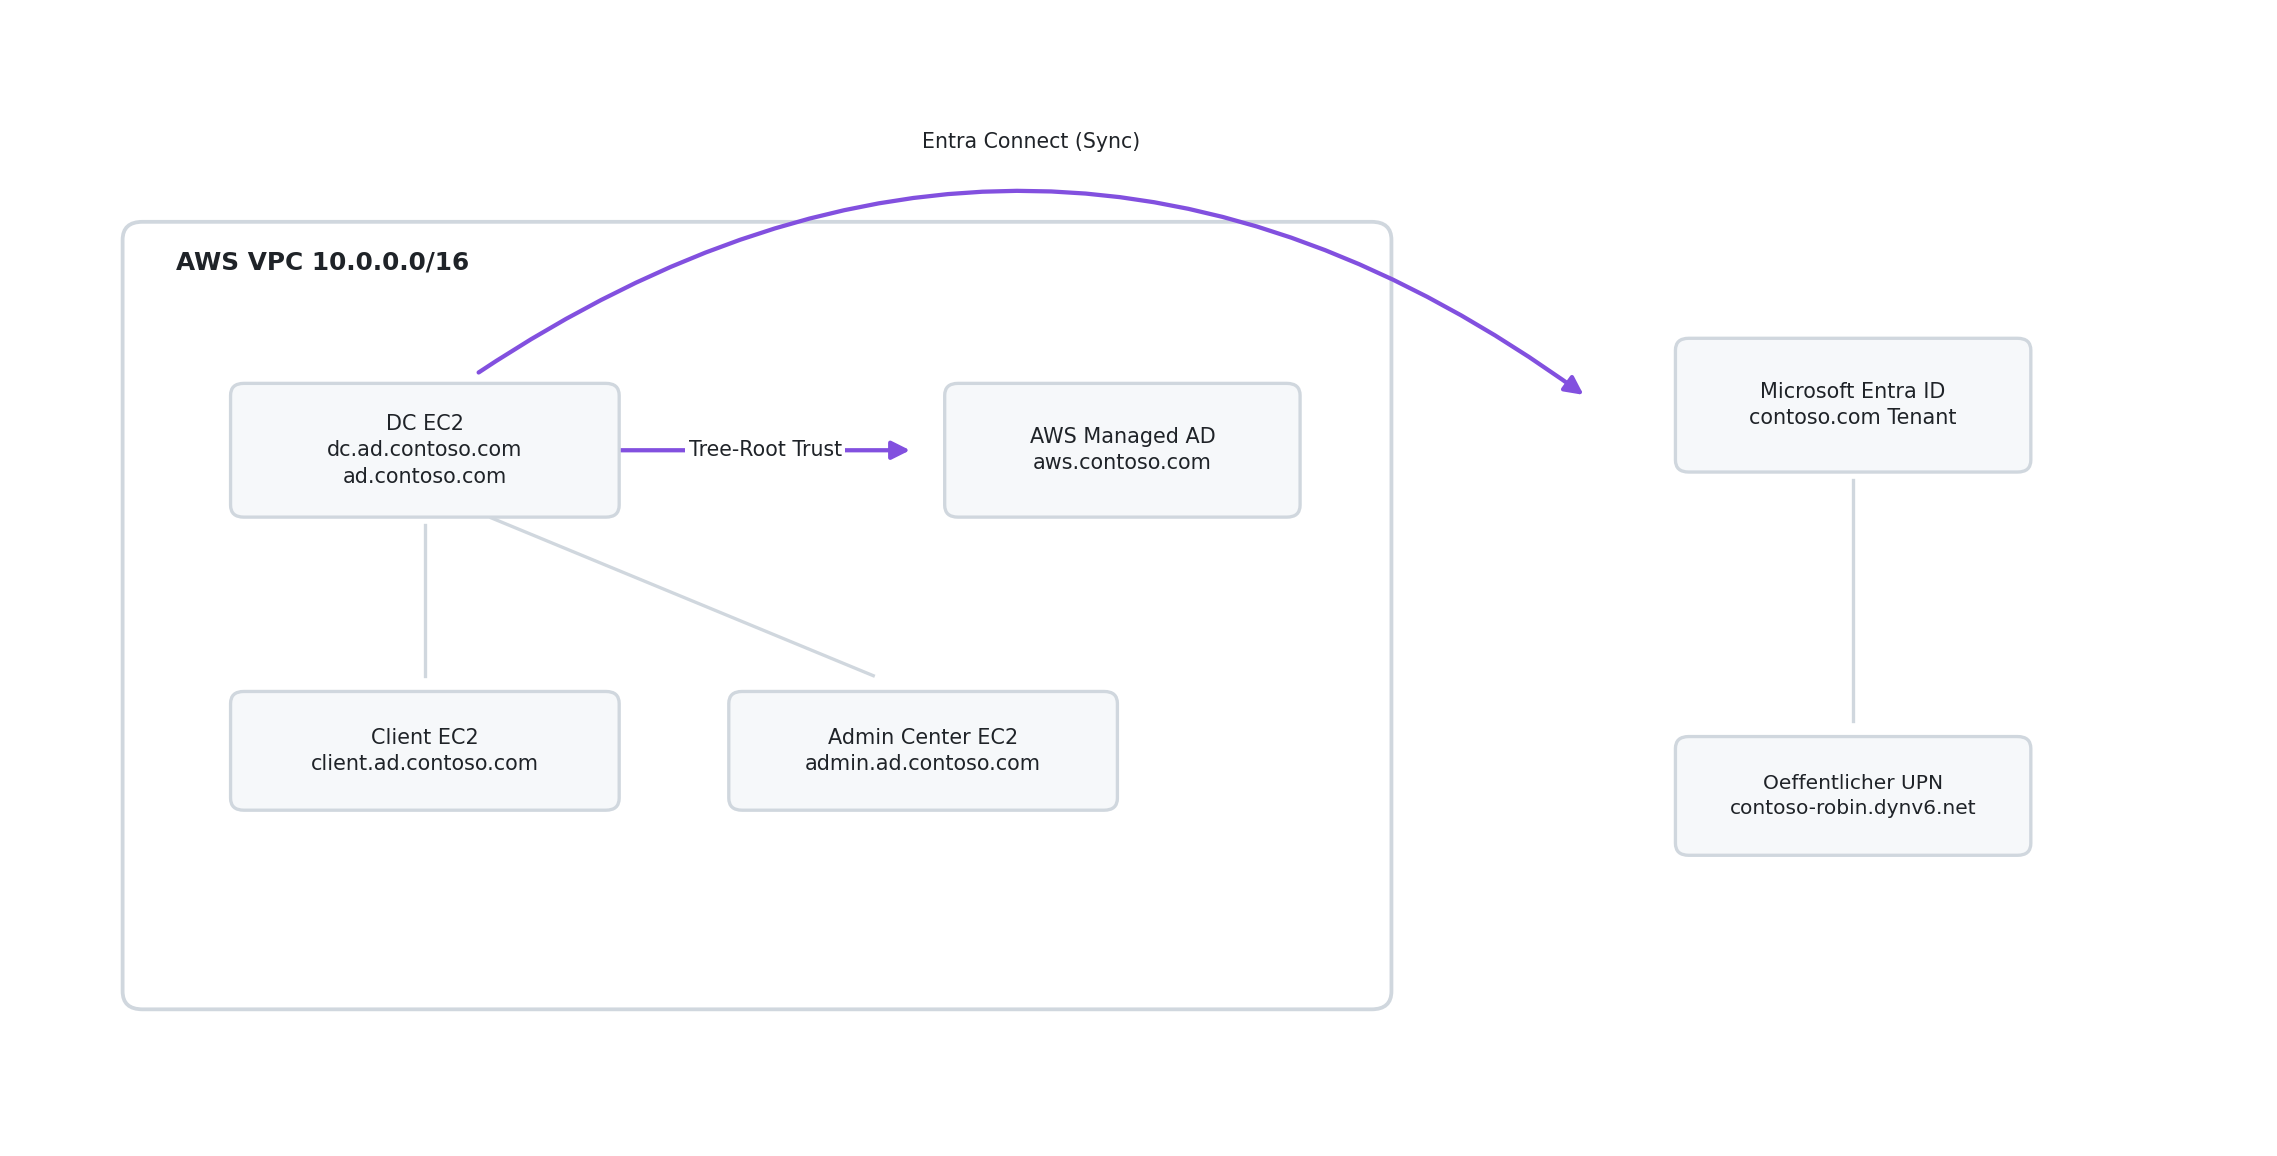
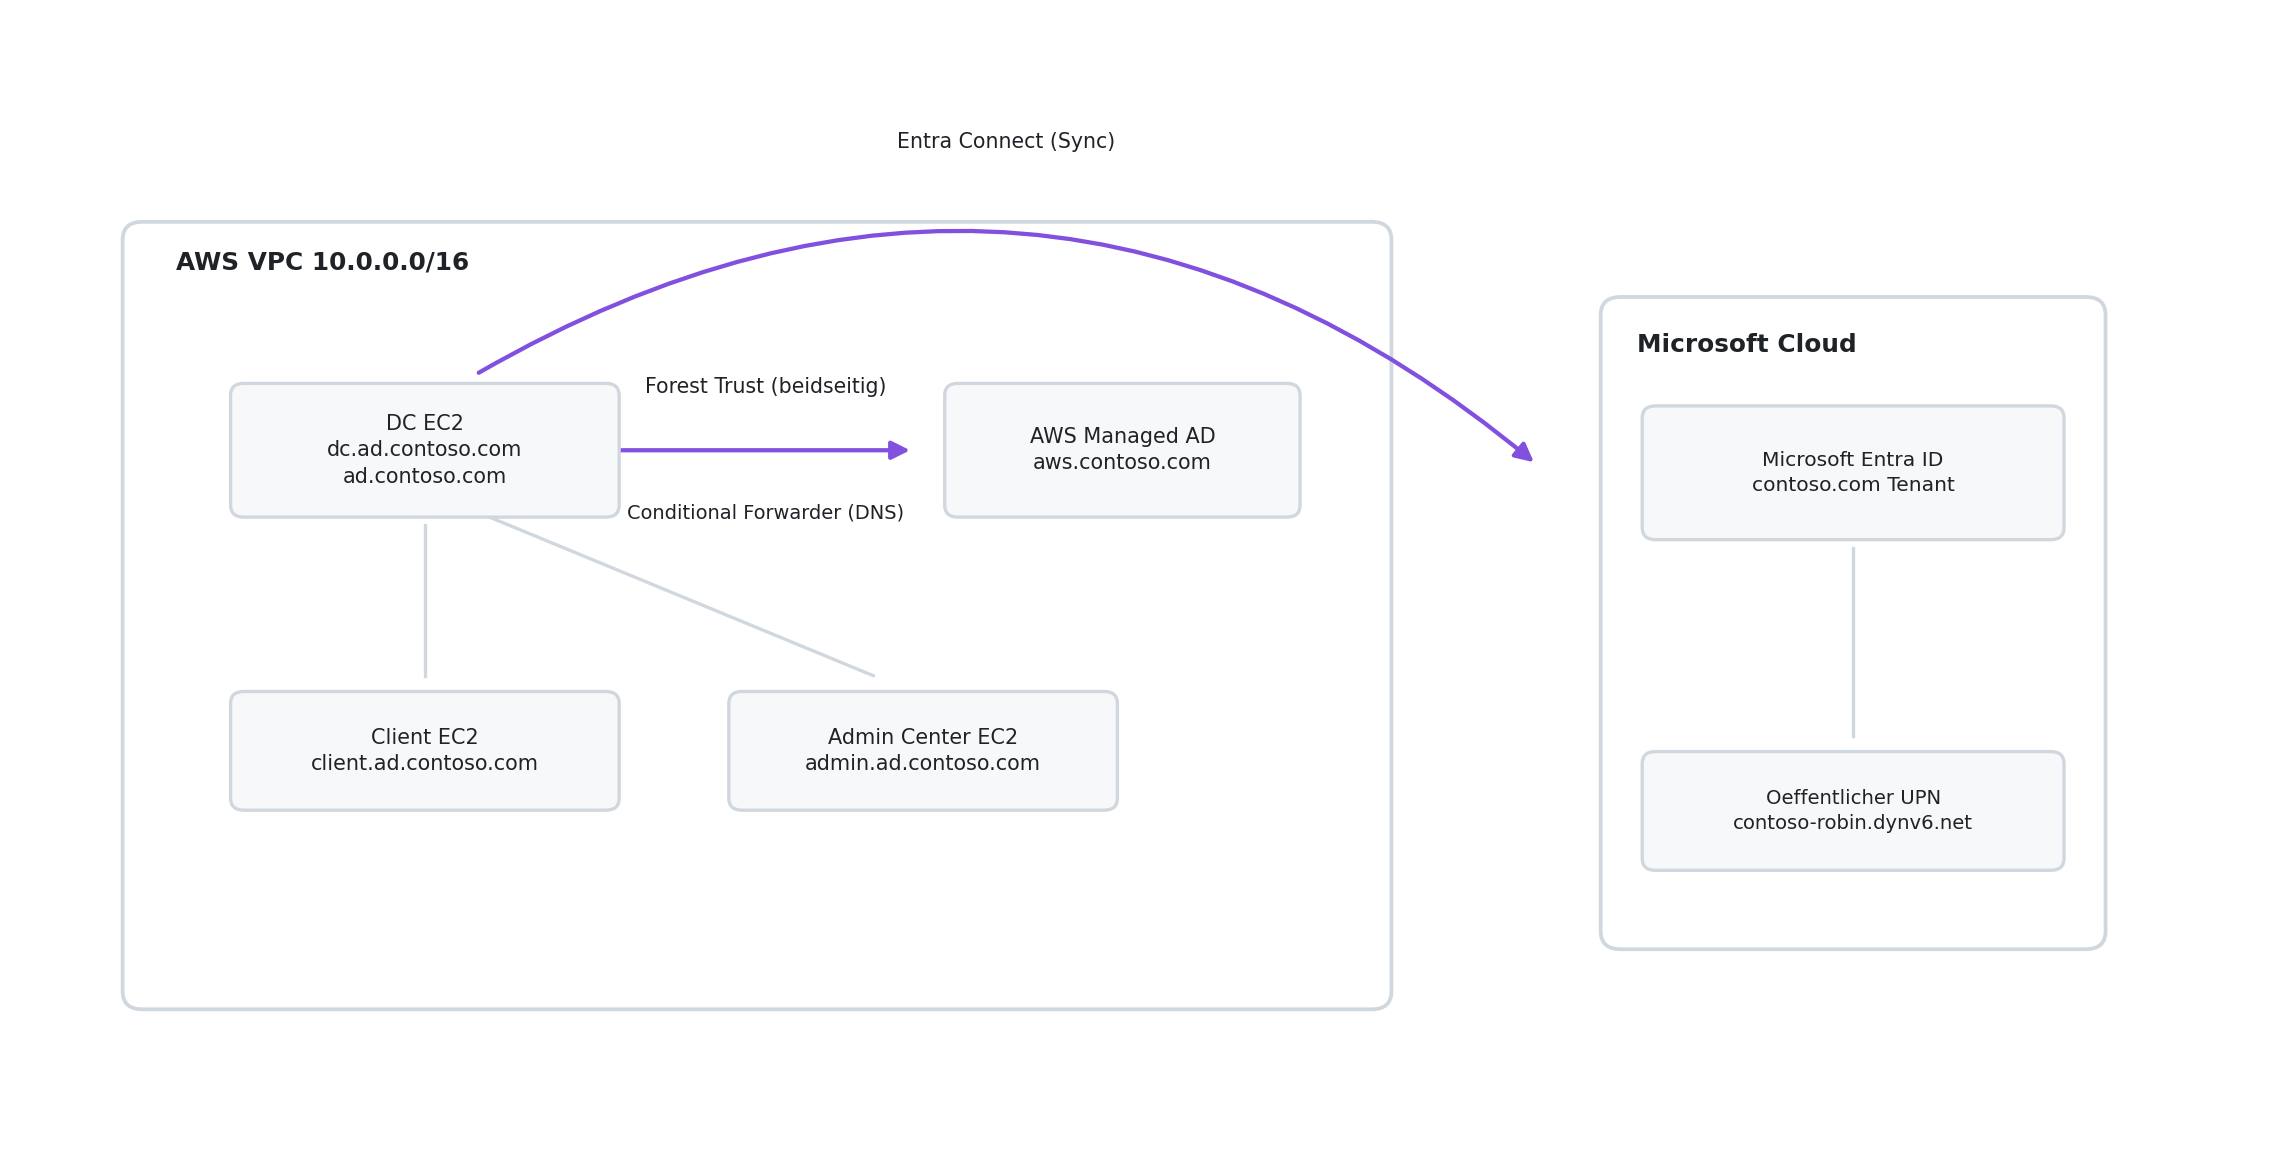
update

diff --git a/01-planung/README.md b/01-planung/README.md
@@ -86,14 +86,14 @@ Erster Entwurf der Zielumgebung. Details (genaue CIDRs/IPs) folgen in [Auftrag 0
 
 <picture>
   <source media="(prefers-color-scheme: dark)" srcset="../00-files/assets/architektur-dark.png">
-  <img src="../00-files/assets/architektur-light.png" alt="Architektur: AWS VPC mit DC, Client und Admin Center EC2 sowie AWS Managed AD, DC hat Tree-Root Trust zu AWS Managed AD und synct via Entra Connect zu Microsoft Entra ID, welches mit dem oeffentlichen UPN verbunden ist" width="1000">
+  <img src="../00-files/assets/architektur-light.png" alt="Architektur: AWS VPC mit DC, Client und Admin Center EC2 sowie AWS Managed AD, DC hat beidseitigen Forest Trust und Conditional Forwarder zu AWS Managed AD und synct via Entra Connect zu Microsoft Entra ID in der Microsoft Cloud, welches mit dem oeffentlichen UPN verbunden ist" width="1000">
 </picture>
 
 | Feld | Wert | Details |
 |---|---|---|
 | On-Prem AD Domäne | `ad.contoso.com` | [Auftrag 03](../03-gesamtstruktur-dc-client/) |
 | AWS Managed AD Domäne | `aws.contoso.com` | [Auftrag 05](../05-aws-managed-ad/) |
-| Trust-Typ | Tree-Root Trust | [Setup-Sheet](./setup-sheet.md#06-active-directory-umgebung) |
+| Trust-Typ | Forest Trust (beidseitig) | [Setup-Sheet](./setup-sheet.md#06-active-directory-umgebung) |
 | Entra ID Sync | Entra Connect | [Auftrag 10](../10-entra-connect/) |
 | Öffentlicher UPN (geplant) | `contoso-robin.dynv6.net` | [Auftrag 13](../13-sso-python-app/) |
 

diff --git a/01-planung/setup-sheet.md b/01-planung/setup-sheet.md
@@ -110,7 +110,7 @@
 | Feld | Wert |
 |---|---|
 | Third-Level-Domäne | `aws.contoso.com` |
-| Trust-Typ | Tree-Root Trust |
+| Trust-Typ | Forest Trust (beidseitig) |
 | AWS Managed Admin User | admin |
 | AWS Managed Admin Passwort | _siehe Passwort-Manager_ |
 | DNS-Server 1 | _{{DNS1}}_ |
